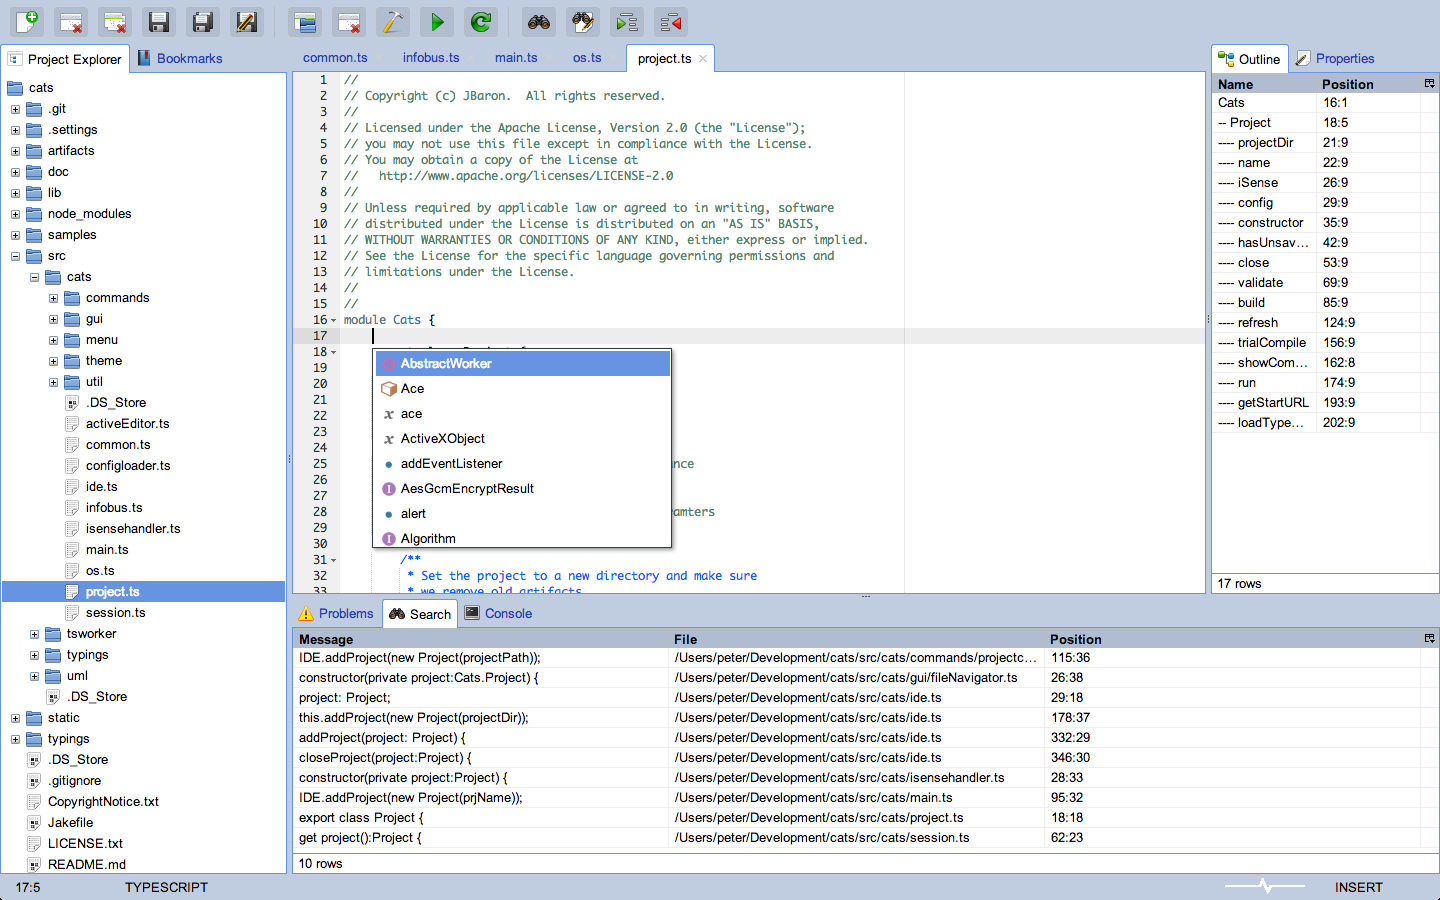
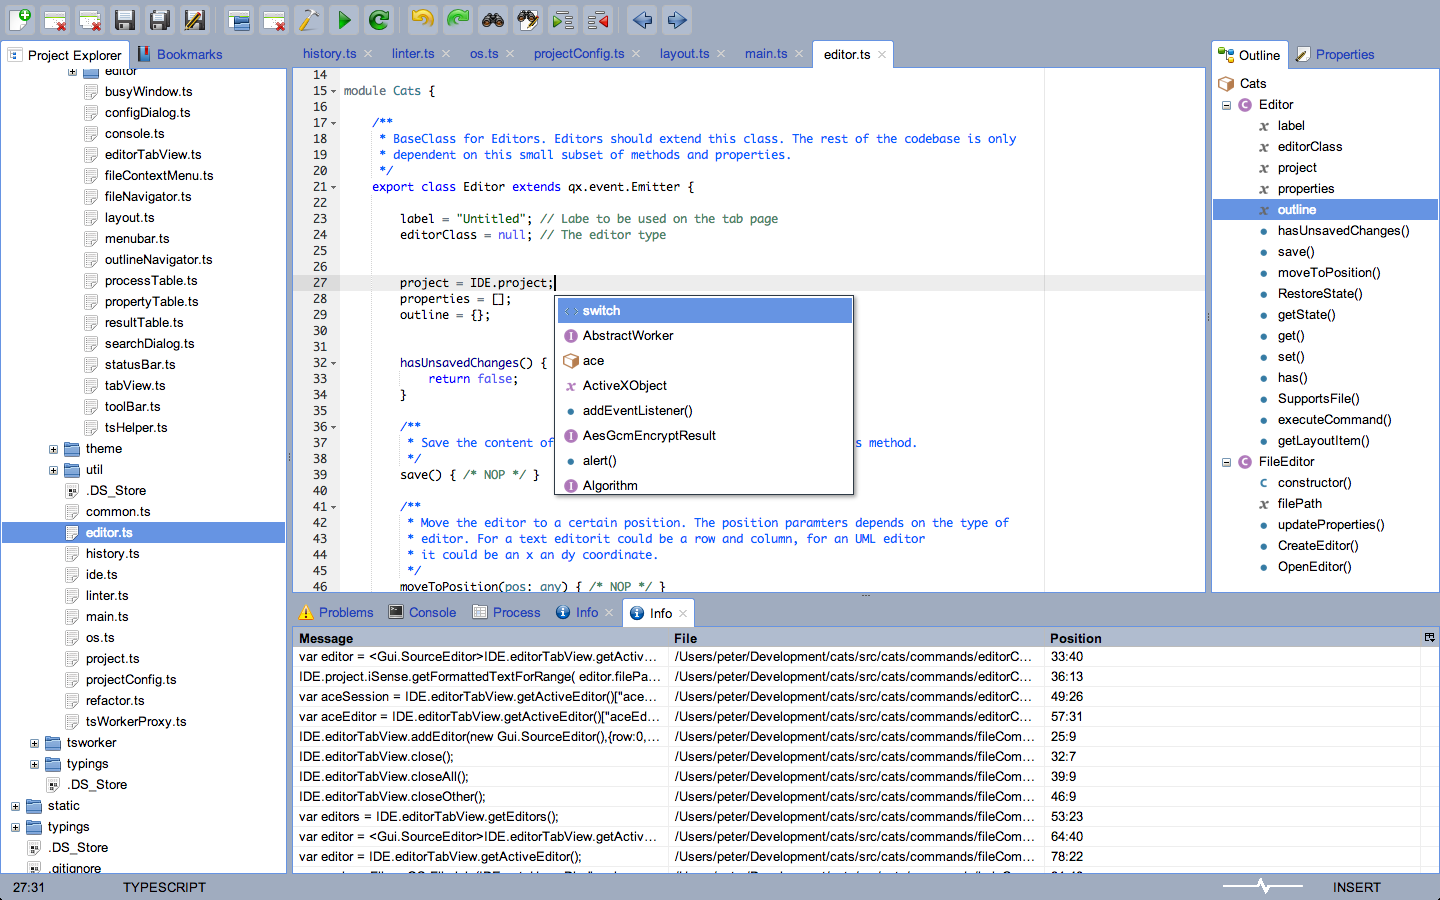
Refactored open editors method

Changed region(s): [[0.0, 0.0, 1.0, 1.0], [0.625, 0.1244, 0.6562, 0.1556], [0.5938, 0.4667, 0.625, 0.4978]]

diff --git a/lib/main.js b/lib/main.js
@@ -18,7 +18,8 @@ var Cats;
         qx.Theme.define("cats.theme.Color", {
             extend: qx.theme.simple.Color,
             colors: {
-                "light-background": "#C0CCDF",
+                // "light-background": "#C0CCDF",
+                "light-background": "#A0ACBF",
                 "button-box-bright": "#B0BCCF"
             }
         });
@@ -681,7 +682,7 @@ var Cats;
             var files = event.dataTransfer.files;
 
             for (var i = 0; i < files.length; i++) {
-                this.openEditor(files[i].path);
+                Cats.FileEditor.OpenEditor(files[i].path);
             }
         };
 
@@ -690,7 +691,6 @@ var Cats;
         * IDE was closed.
         */
         Ide.prototype.restorePreviousProjects = function () {
-            var _this = this;
             console.info("restoring previous project and sessions.");
             if (this.config.projects && this.config.projects.length) {
                 var projectDir = this.config.projects[0];
@@ -700,7 +700,7 @@ var Cats;
                     console.info("Found previous sessions: ", this.config.sessions.length);
                     this.config.sessions.forEach(function (session) {
                         try  {
-                            _this.openEditor(session.path);
+                            Cats.FileEditor.OpenEditor(session.path);
                         } catch (err) {
                             console.error("error " + err);
                         }
@@ -777,41 +777,6 @@ var Cats;
             } catch (err) {
                 console.error(err);
             }
-        };
-
-        Ide.prototype.createEditor = function (fileName) {
-            if (Cats.Gui.ImageEditor.SupportsFile(fileName))
-                return new Cats.Gui.ImageEditor(fileName);
-            if (Cats.Gui.SourceEditor.SupportsFile(fileName))
-                return new Cats.Gui.SourceEditor(fileName);
-            return null;
-        };
-
-        /**
-        * Open an existing editor or if it doesn't exist yet create
-        * a new one.
-        */
-        Ide.prototype.openEditor = function (name, pos) {
-            if (typeof pos === "undefined") { pos = { row: 0, column: 0 }; }
-            var editor;
-            var pages = [];
-            pages = this.editorTabView.getPagesForFile(name);
-            if (!pages.length) {
-                editor = this.createEditor(name);
-                if (!editor) {
-                    var c = confirm("No suitable editor found for this file type, open with source editor?");
-                    if (!c)
-                        return;
-                    editor = new Cats.Gui.SourceEditor(name);
-                }
-                IDE.editorTabView.addEditor(editor, pos);
-            } else {
-                editor = pages[0].editor;
-                this.editorTabView.setSelection([pages[0]]);
-                editor.moveToPosition(pos);
-            }
-
-            return editor;
         };
 
         /**
@@ -1435,7 +1400,7 @@ var Cats;
         function renameOccurences(edits, name) {
             for (var i = edits.length - 1; i >= 0; i--) {
                 var data = edits[i];
-                var editor = IDE.openEditor(data.fileName);
+                var editor = Cats.FileEditor.OpenEditor(data.fileName);
                 var r = data.range;
                 var range = new Range(r.start.row, r.start.column, r.end.row, r.end.column);
                 editor.replace(range, name);
@@ -1666,6 +1631,41 @@ var Cats;
                 } catch (err) {
                 }
             }
+        };
+
+        FileEditor.CreateEditor = function (fileName) {
+            if (Cats.Gui.ImageEditor.SupportsFile(fileName))
+                return new Cats.Gui.ImageEditor(fileName);
+            if (Cats.Gui.SourceEditor.SupportsFile(fileName))
+                return new Cats.Gui.SourceEditor(fileName);
+            return null;
+        };
+
+        /**
+        * Open an existing editor or if it doesn't exist yet create
+        * a new FileEditor.
+        */
+        FileEditor.OpenEditor = function (name, pos) {
+            if (typeof pos === "undefined") { pos = { row: 0, column: 0 }; }
+            var editor;
+            var pages = [];
+            pages = IDE.editorTabView.getPagesForFile(name);
+            if (!pages.length) {
+                editor = this.CreateEditor(name);
+                if (!editor) {
+                    var c = confirm("No suitable editor found for this file type, open with source editor?");
+                    if (!c)
+                        return;
+                    editor = new Cats.Gui.SourceEditor(name);
+                }
+                IDE.editorTabView.addEditor(editor, pos);
+            } else {
+                editor = pages[0].editor;
+                IDE.editorTabView.setSelection([pages[0]]);
+                editor.moveToPosition(pos);
+            }
+
+            return editor;
         };
         return FileEditor;
     })(Editor);
@@ -3662,7 +3662,7 @@ var Cats;
             SourceEditorContextMenu.prototype.gotoDeclaration = function () {
                 this.getIsense().getDefinitionAtPosition(this.editor.filePath, this.getPos(), function (err, data) {
                     if (data && data.fileName)
-                        IDE.openEditor(data.fileName, data.range.start);
+                        Cats.FileEditor.OpenEditor(data.fileName, data.range.start);
                 });
             };
 
@@ -4014,7 +4014,7 @@ var Cats;
                 this.addListener("dblclick", function () {
                     var file = _this.getSelectedFile();
                     if (file) {
-                        IDE.openEditor(file.getFullPath());
+                        Cats.FileEditor.OpenEditor(file.getFullPath());
                     }
                 });
                 // Force a relaod after a close
@@ -4317,7 +4317,7 @@ var Cats;
                     var selectedRow = _this.getSelectionModel().getLeadSelectionIndex();
                     var data = _this.getTableModel().getRowData(selectedRow);
                     if (data)
-                        IDE.openEditor(data[1], data[3]);
+                        Cats.FileEditor.OpenEditor(data[1], data[3]);
                 });
 
                 this.setContextMenu(this.createContextMenu());
@@ -6294,7 +6294,8 @@ var Cats;
 (function (Cats) {
     (function (Gui) {
         /**
-        * Thsi class provides assists the SourceEditor for TypeScript files
+        * Thsi class assists the SourceEditor for TypeScript files. It takes care of
+        * diagnostics and outline updates.
         */
         var TSHelper = (function () {
             function TSHelper(editor, editSession) {

diff --git a/src/cats/ide.ts b/src/cats/ide.ts
@@ -118,7 +118,7 @@ module Cats {
             var files: FileList = event.dataTransfer.files;
 
             for(var i = 0; i < files.length; i++) {
-                this.openEditor((<any>files[i]).path);
+                FileEditor.OpenEditor((<any>files[i]).path);
             }
         }
 
@@ -136,7 +136,7 @@ module Cats {
                     console.info("Found previous sessions: ", this.config.sessions.length);
                     this.config.sessions.forEach((session) => {
                         try {
-                            this.openEditor(session.path);
+                            FileEditor.OpenEditor(session.path);
                         } catch (err) {
                             console.error("error " + err);
                         }
@@ -217,36 +217,6 @@ module Cats {
         }
 
 
-        private createEditor(fileName:string) : Editor {
-            if (Gui.ImageEditor.SupportsFile(fileName)) return new Gui.ImageEditor(fileName);
-            if (Gui.SourceEditor.SupportsFile(fileName)) return new Gui.SourceEditor(fileName);
-            return null;
-        }
-
-        /**
-         * Open an existing editor or if it doesn't exist yet create
-         * a new one.
-         */ 
-        openEditor(name: string, pos:ace.Position = {row:0, column:0}):Editor {
-            var editor : Editor;
-            var pages:Gui.EditorPage[] = [];
-            pages = this.editorTabView.getPagesForFile(name);
-            if (! pages.length) {
-                editor = this.createEditor(name);
-                if (! editor) {
-                    var c = confirm("No suitable editor found for this file type, open with source editor?");
-                    if (! c) return; 
-                    editor = new Gui.SourceEditor(name);
-                }
-                IDE.editorTabView.addEditor(editor,pos);
-            } else {
-                editor = <Gui.SourceEditor>pages[0].editor;
-                this.editorTabView.setSelection([pages[0]]);
-                editor.moveToPosition(pos);
-            }
-
-            return editor;
-        }
 
 
         /**

diff --git a/src/cats/editor.ts b/src/cats/editor.ts
@@ -121,6 +121,38 @@ module Cats {
                     } catch (err) { /* NOP */ }
                  }
             }
+            
+        private static CreateEditor(fileName:string) : FileEditor {
+            if (Gui.ImageEditor.SupportsFile(fileName)) return new Gui.ImageEditor(fileName);
+            if (Gui.SourceEditor.SupportsFile(fileName)) return new Gui.SourceEditor(fileName);
+            return null;
+        }
+
+        /**
+         * Open an existing editor or if it doesn't exist yet create
+         * a new FileEditor.
+         */ 
+        static OpenEditor(name: string, pos:ace.Position = {row:0, column:0}):FileEditor {
+            var editor : FileEditor;
+            var pages:Gui.EditorPage[] = [];
+            pages = IDE.editorTabView.getPagesForFile(name);
+            if (! pages.length) {
+                editor = this.CreateEditor(name);
+                if (! editor) {
+                    var c = confirm("No suitable editor found for this file type, open with source editor?");
+                    if (! c) return; 
+                    editor = new Gui.SourceEditor(name);
+                }
+                IDE.editorTabView.addEditor(editor,pos);
+            } else {
+                editor = <Gui.SourceEditor>pages[0].editor;
+                IDE.editorTabView.setSelection([pages[0]]);
+                editor.moveToPosition(pos);
+            }
+
+            return editor;
+        }
+
         
     }
     

diff --git a/src/cats/refactor.ts b/src/cats/refactor.ts
@@ -24,7 +24,7 @@ module Cats.Refactor {
     function renameOccurences(edits:FileRange[],name:string) {
         for (var i = edits.length - 1; i >= 0; i--) {
             var data = edits[i];
-            var editor = <Gui.SourceEditor>IDE.openEditor(data.fileName);
+            var editor = <Gui.SourceEditor>FileEditor.OpenEditor(data.fileName);
             var r = data.range;
             var range: ace.Range = new Range(r.start.row, r.start.column, r.end.row, r.end.column);
             editor.replace(range,name);

diff --git a/src/cats/gui/resultTable.ts b/src/cats/gui/resultTable.ts
@@ -41,7 +41,7 @@ module Cats.Gui {
             this.getSelectionModel().addListener("changeSelection", (data) => {
                 var selectedRow = this.getSelectionModel().getLeadSelectionIndex();
                 var data = this.getTableModel().getRowData(selectedRow);
-                if (data) IDE.openEditor(data[1], data[3]);
+                if (data) FileEditor.OpenEditor(data[1], data[3]);
             });
 
             this.setContextMenu(this.createContextMenu());

diff --git a/src/cats/gui/editor/sourceEditorContextMenu.ts b/src/cats/gui/editor/sourceEditorContextMenu.ts
@@ -41,7 +41,7 @@ module Cats.Gui {
         gotoDeclaration() {
             this.getIsense().getDefinitionAtPosition(this.editor.filePath, this.getPos(), (err, data: Cats.FileRange) => {
                 if (data && data.fileName)
-                    IDE.openEditor(data.fileName, data.range.start);
+                    FileEditor.OpenEditor(data.fileName, data.range.start);
             });
         }
 

diff --git a/src/cats/gui/fileNavigator.ts b/src/cats/gui/fileNavigator.ts
@@ -75,7 +75,7 @@ module Cats.Gui {
             this.addListener("dblclick", () => {
                 var file = this.getSelectedFile();
                 if (file) {
-                    IDE.openEditor(file.getFullPath());
+                    FileEditor.OpenEditor(file.getFullPath());
                 }
             });
 

diff --git a/src/cats/theme/color.ts b/src/cats/theme/color.ts
@@ -21,7 +21,8 @@ module Cats.Theme {
 
             colors:
             {
-                "light-background": "#C0CCDF",
+                // "light-background": "#C0CCDF",
+                "light-background": "#A0ACBF",
                 "button-box-bright": "#B0BCCF"
             }
         });

diff --git a/src/cats/gui/tsHelper.ts b/src/cats/gui/tsHelper.ts
@@ -17,7 +17,8 @@
 module Cats.Gui {
 
     /**
-     * Thsi class provides assists the SourceEditor for TypeScript files
+     * Thsi class assists the SourceEditor for TypeScript files. It takes care of
+     * diagnostics and outline updates.
      */ 
     export class TSHelper {
         

diff --git a/README.md b/README.md
@@ -9,15 +9,16 @@ Right now CATS already has built-in support for the following features:
  
 <img width="680" src="https://raw.github.com/jbaron/cats/master/artifacts/cats_screenshot.png" />
 
-- Syntax highlighting for over 110 languages (TextMate/Sublime Text.tmlanguage files can be imported)
+- Syntax highlighting for over 110 languages (TextMate/Sublime Text.tmlanguage files can be imported).
+- Support for code snippets.
 - Support for refactoring and smart navigation.
 - TypeScript compilation to JavaScript.
 - Validation of the source code while you are typing.
 - Linter support for TypeScript and JavaScript.
 - Generate API documentation based on the comments in the source code.
-- Editing features like folding and indentation.
+- Editing features like folding, indentation and code formatting.
 - Running your application from within IDE and using the WebKit debugger to debug.
-- Support for external build systems like Grunt, Jake and Makefiles.
+- Support for external build systems like Grunt, Jake, Gulp and Makefiles.
 
 
 ## Building
@@ -71,7 +72,7 @@ nodewebkit --project </path/projectDirectory>
 
 Although you can use a relative path for specifying the project directory, 
 please notice it is relative to the CATS installation directory and not the 
-directory you are currently in. So normally better to use a full path.
+directory you are currently in. So normally it is better to specify the full path to the project directory.
 
 
 To open CATS with the same project as last time use the --restore option:
